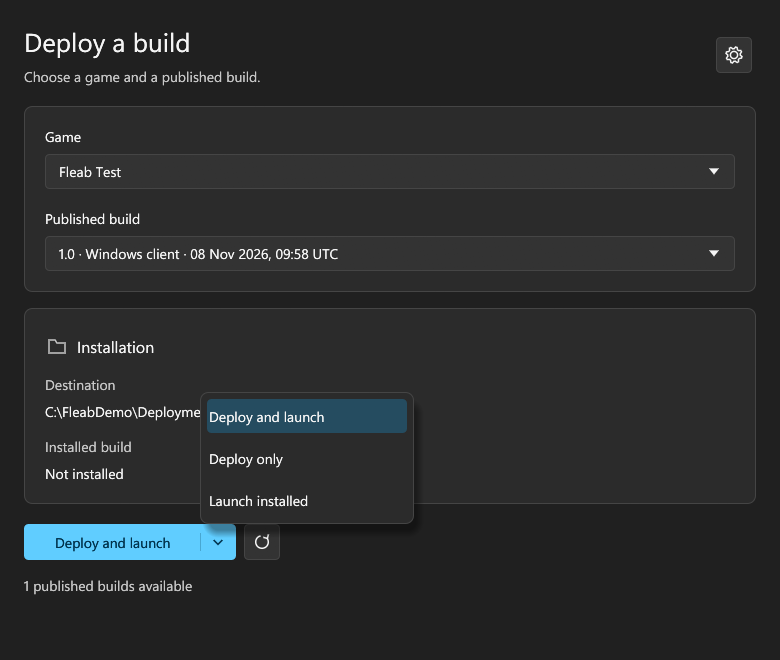
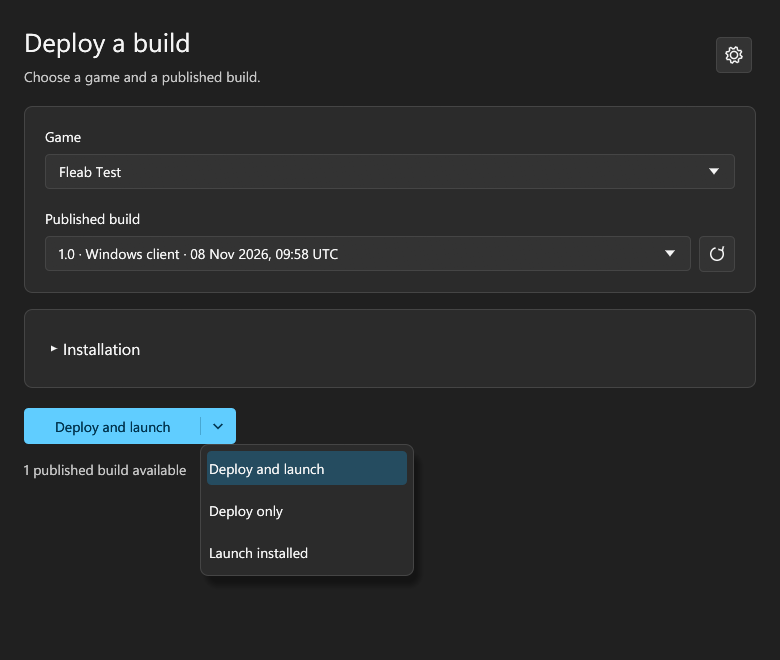
docs(desktop): update compact build controls and screenshots
Explain the collapsible Installation panel and newest-build refresh
behavior, including unavailable sources and post-deployment scans.

Refresh light and dark app/menu screenshots from hidden Sandbox and
record Windows and Linux validation, including the font-width fix.

diff --git a/docs/deployer.md b/docs/deployer.md
@@ -35,21 +35,30 @@ each OS/client-server target. A blank destination disables that target's builds
 in discovery. Architectures share destinations; no host-platform filter exists.
 
 Sources are scanned at startup, profile selection and Refresh. There is no
-watcher. All matching archives share one newest-first dropdown. Discovery
-ignores temporary filenames, malformed names, directories and symlink files.
+watcher. Refresh sits beside the Published build dropdown and selects the
+newest available archive after a successful scan. Rescans after deployment
+keep the selected archive. All matching archives share one newest-first
+dropdown. Discovery ignores temporary filenames, malformed names, directories
+and symlink files.
 A disconnected source reports an error without erasing profile settings or
-local installation records. Reconnect the share and Refresh.
+local installation records or the last selected archive. Reconnect the share
+and Refresh.
 If a share disconnects after discovery, the last scanned selection remains
 available for launching the installed build; deployment still validates the
 source on use. With no scanned selection, local installation records remain
-visible as status information.
+available in the Installation panel.
 
 The selected archive determines the destination and installed-build display.
+The **Installation** panel starts collapsed; click its header to see the
+destination and installed build. Its open state is remembered for each game
+and target during the app session. Installation errors remain visible when
+the details are collapsed.
+
 The primary split button defaults to **Deploy and launch**: it installs the
 selected archive, then starts that newly installed build with the profile's
 launch settings. Open the arrow to choose **Deploy only** or **Launch installed**.
 Choosing a menu item changes the button; click the button to run it. The choice
-lasts for the current app session. The refresh icon rescans the archive source.
+lasts for the current app session.
 See the action menu in [light](screenshots/actions-light.png) or
 [dark](screenshots/actions-dark.png) mode.
 

diff --git a/docs/verification.md b/docs/verification.md
@@ -1,5 +1,27 @@
 # Verification record
 
+## Compact build controls and refresh selection — 12 November 2026
+
+Installation details now start collapsed and can be expanded by clicking the
+header. The open state is kept per profile/target for the current app session;
+installation errors remain visible outside the collapsed body. Refresh is next
+to Published build and selects the newest archive after a successful scan.
+Post-deployment scans keep the selected archive. Failed scans preserve the
+previous dropdown and selection; successful empty scans clear both.
+
+* Windows suite: 47 tests passed; strict Clippy and formatting passed.
+* Linux x64 under WSL: strict Clippy and 49 tests passed on native filesystems.
+* Refresh checks use a directory containing old/new archive filenames, then an
+  unavailable source and an empty source. UI checks cover expanding the panel,
+  preserving post-deployment feedback/selection and small-window layouts.
+* Linux's wider font exposed the build dropdown consuming Refresh's reserved
+  space at 480×390. A constrained child layout fixed it; the light/dark layout
+  checks pass on both Windows and Linux.
+* The final main views and action menus were captured and inspected in light
+  and dark themes in hidden Windows Sandbox. The capture harness uses the
+  production UI with capture-only palette/popup overrides. The host desktop
+  remained free. Screenshot files used by the README have been refreshed.
+
 ## Deploy and launch — 12 November 2026
 
 The desktop split button defaults to **Deploy and launch** and offers
